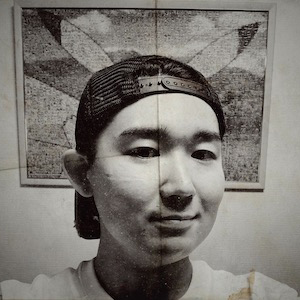
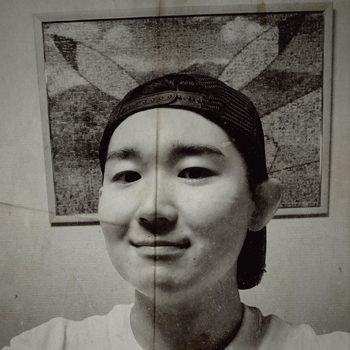
画像修正と不使用画像の削除

diff --git a/index.html b/index.html
@@ -40,7 +40,7 @@
                 <article class="main-contents__top">
                     <div class="main-contents__top__about">
                         <a href="./about" class="link-about">
-                            <img src="./img/photos/face6.jpeg">
+                            <img src="./img/photos/face.jpeg">
                             <h2>About</h2>
                             <div class="mask">
                                 <div class="caption">About</div>

diff --git a/about.html b/about.html
@@ -40,7 +40,7 @@
             </article>
             <article class="main-contents__about">
                 <div class="profile-image">
-                    <img src="./img/photos/cap2.jpeg">
+                    <img src="./img/photos/cap.jpeg">
                 </div>
                 <section class="profile-category">
                     <dl>
